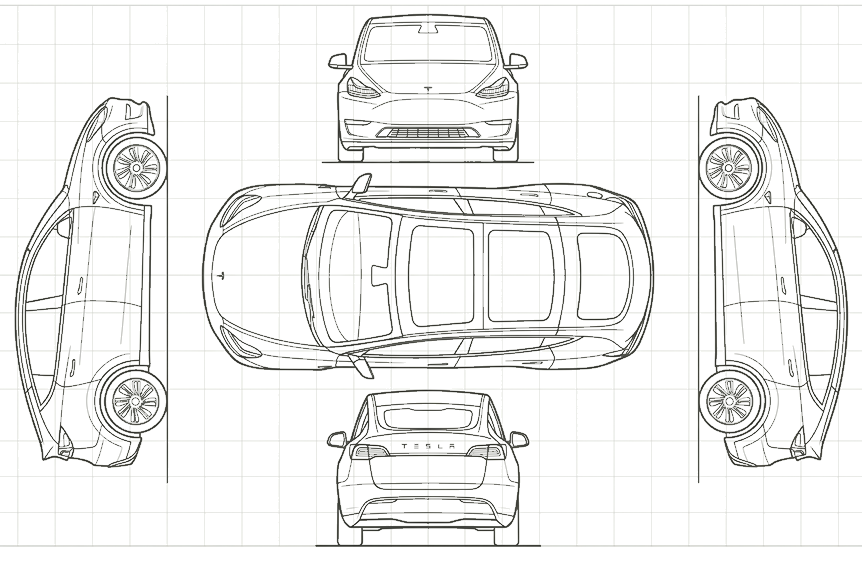
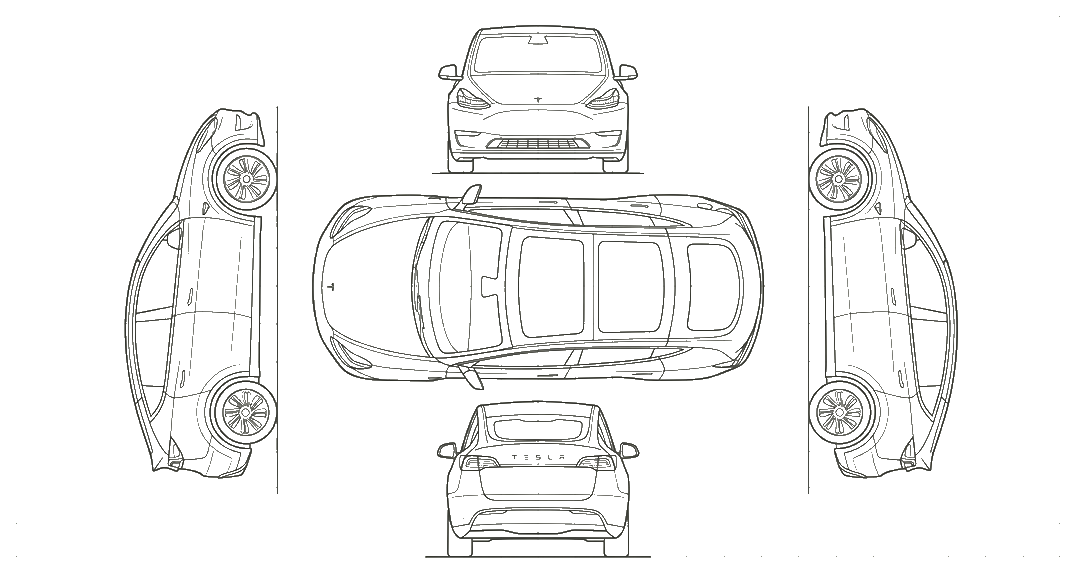
Damage diagram: remove grid, clean blueprint on white
Threshold out the graph-paper grid (lum>150 -> white), keeping crisp car
linework. Pad aspect updated to match (1076/574).

Changed region(s): [[0.0, 0.0, 1.0, 1.0]]

diff --git a/index_v2.html b/index_v2.html
@@ -146,7 +146,7 @@ body{
 body.mobile-mode .tab.desktop-only{display:none}
 
 /* Pre-existing damage diagram (intake) */
-.damage-pad{position:relative;width:100%;max-width:420px;margin:8px 0;aspect-ratio:862/561;background:var(--white);border:1px solid var(--border);border-radius:12px;cursor:crosshair;touch-action:manipulation;user-select:none}
+.damage-pad{position:relative;width:100%;max-width:440px;margin:8px 0;aspect-ratio:1076/574;background:var(--white);border:1px solid var(--border);border-radius:12px;cursor:crosshair;touch-action:manipulation;user-select:none}
 .damage-pad.readonly{cursor:default}
 .damage-pad svg{position:absolute;inset:0;width:100%;height:100%}
 .damage-pad img.damage-car{position:absolute;inset:0;width:100%;height:100%;object-fit:fill;pointer-events:none;user-select:none;-webkit-user-drag:none}